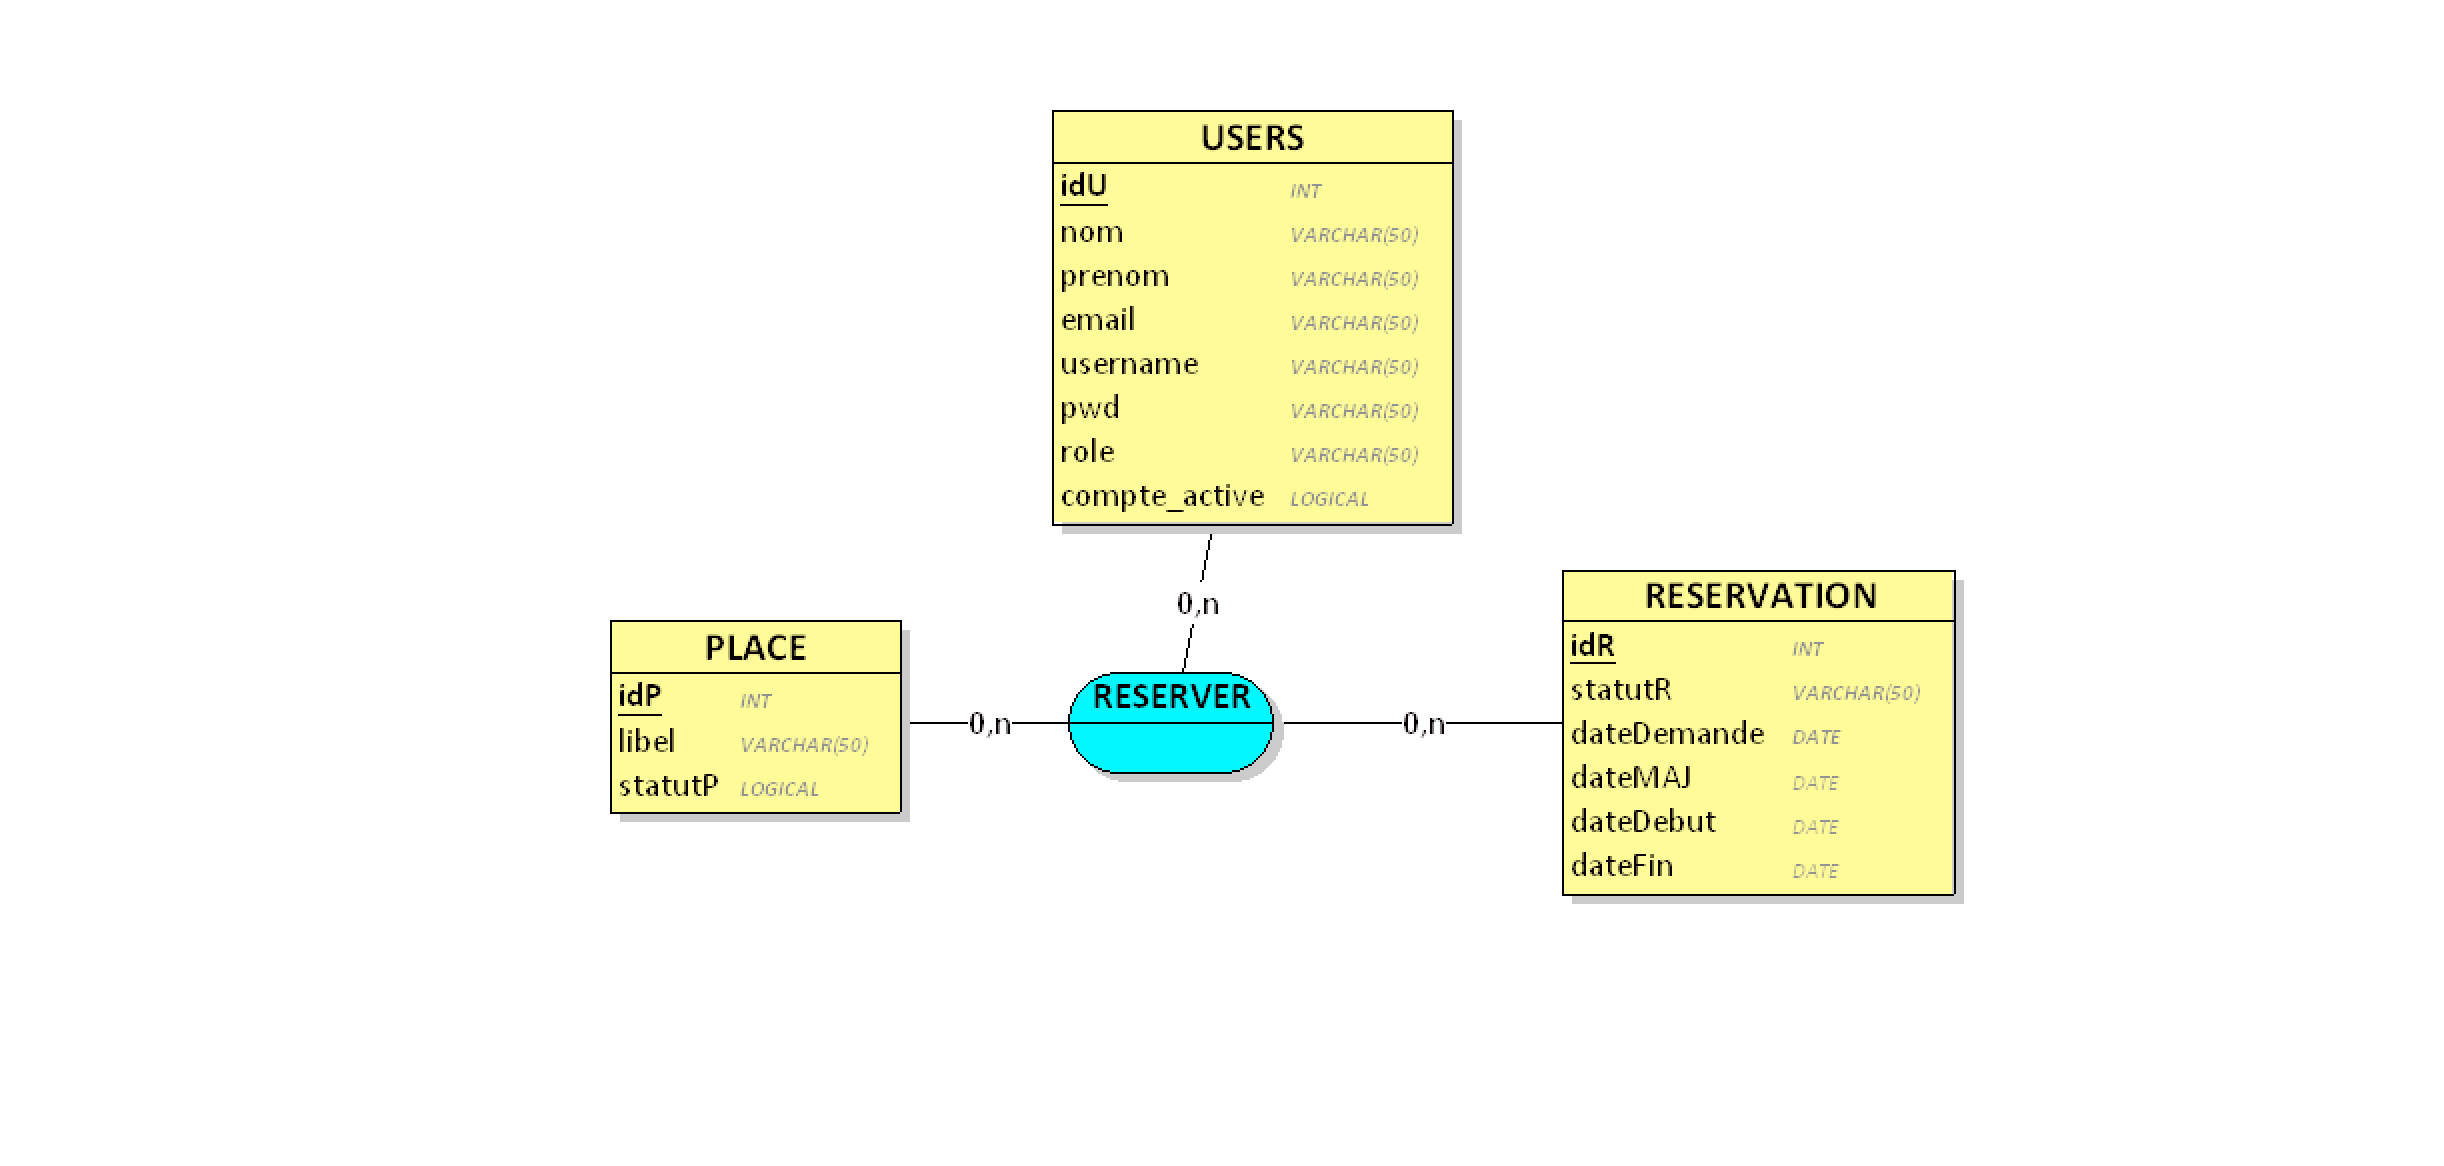
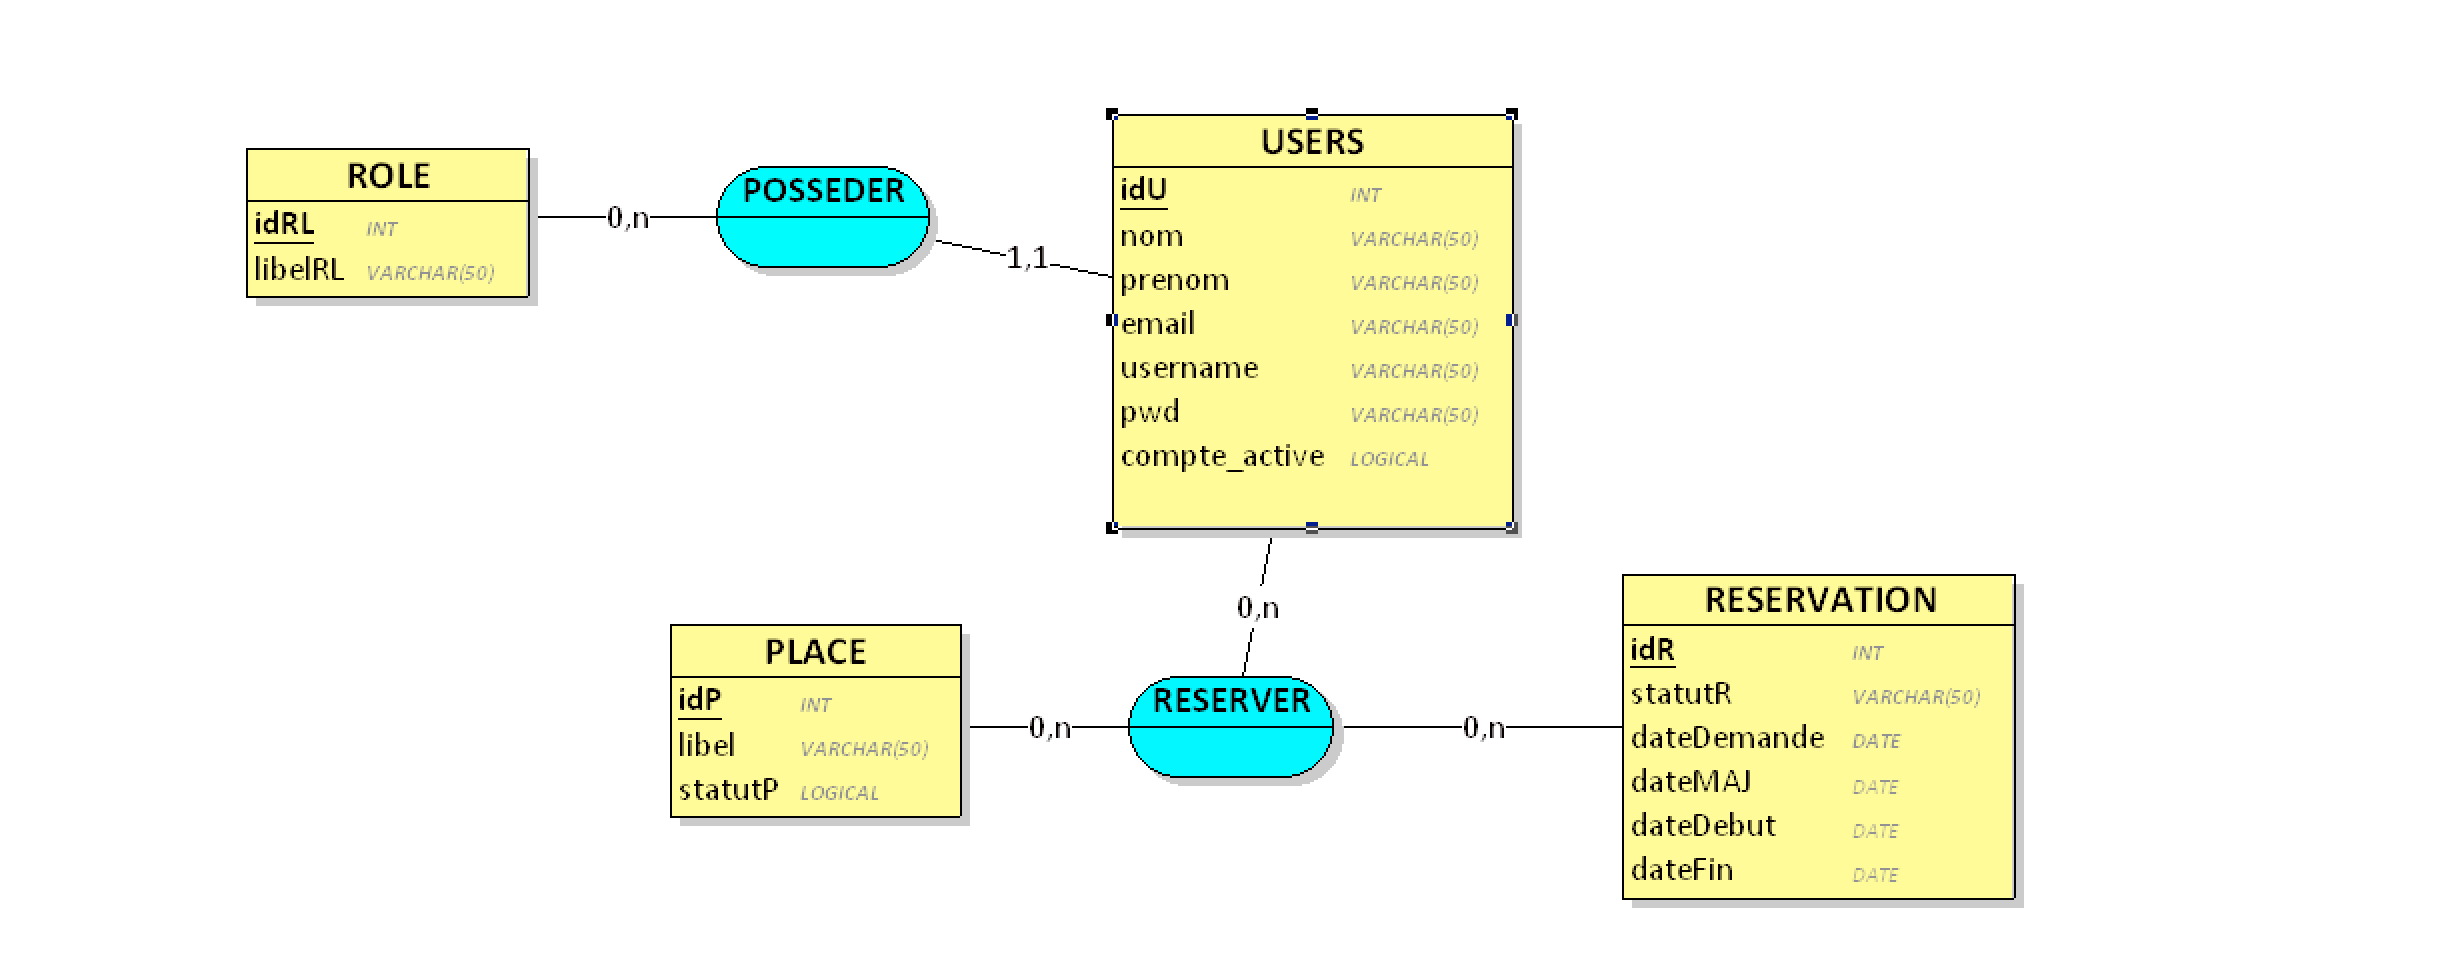
Edit database

Changed region(s): [[0.0933, 0.0936, 0.8396, 0.9667], [0.5597, 0.5925, 0.5908, 0.6237]]

diff --git a/database/migrations/2021_02_26_135723_create_roles_table.php b/database/migrations/2021_02_26_135723_create_roles_table.php
@@ -5,7 +5,7 @@ use Illuminate\Database\Schema\Blueprint;
 use Illuminate\Support\Facades\Schema;
 use Illuminate\Support\Facades\DB;
 
-class CreateUsersTable extends Migration
+class CreateRolesTable extends Migration
 {
     /**
      * Run the migrations.
@@ -14,14 +14,9 @@ class CreateUsersTable extends Migration
      */
     public function up()
     {
-        Schema::create('users', function (Blueprint $table) {
-            $table->increments('idU');
-            $table->string('nom');
-            $table->string('prenom');
-            $table->string('email')->unique();
-            $table->string('username');
-            $table->string('pwd');
-            $table->tinyInteger('compte_active')->default(0);
+        Schema::create('roles', function (Blueprint $table) {
+            $table->increments('idRL');
+            $table->string('libelRL');
             $table->timestamp('created_at')->useCurrent();
             $table->timestamp('updated_at')->default(DB::raw('NULL ON UPDATE CURRENT_TIMESTAMP'))->nullable();
         });
@@ -34,6 +29,6 @@ class CreateUsersTable extends Migration
      */
     public function down()
     {
-        Schema::dropIfExists('users');
+        Schema::dropIfExists('roles');
     }
 }

diff --git a/database/migrations/2021_02_26_135744_create_role_user_table.php b/database/migrations/2021_02_26_135744_create_role_user_table.php
@@ -1,0 +1,44 @@
+<?php
+
+use Illuminate\Database\Migrations\Migration;
+use Illuminate\Database\Schema\Blueprint;
+use Illuminate\Support\Facades\Schema;
+
+class CreateRoleUserTable extends Migration
+{
+    /**
+     * Run the migrations.
+     *
+     * @return void
+     */
+    public function up()
+    {
+        Schema::create('role_user', function (Blueprint $table) {
+            $table->integer('idU')->unsigned();;
+            $table->integer('idRL')->unsigned();;
+        });
+
+        Schema::table('role_user', function (Blueprint $table) {
+            $table->foreign('idU')
+                ->references('idU')
+                ->on('users')
+                ->onUpdate('cascade')
+                ->onDelete('cascade');
+            $table->foreign('idRL')
+                ->references('idRL')
+                ->on('roles')
+                ->onUpdate('cascade')
+                ->onDelete('cascade');
+        });
+    }
+
+    /**
+     * Reverse the migrations.
+     *
+     * @return void
+     */
+    public function down()
+    {
+        Schema::dropIfExists('role_user');
+    }
+}

diff --git a/resources/views/navbar.blade.php b/resources/views/navbar.blade.php
@@ -13,7 +13,7 @@
         <!-- SEARCH FORM -->
         <form class="form-inline ml-3">
         <div class="input-group input-group-sm">
-            <input class="form-control form-control-navbar" type="search" placeholder="Search" aria-label="Search">
+            <input class="form-control form-control-navbar" type="search" placeholder="Rechercher" aria-label="Search">
             <div class="input-group-append">
             <button class="btn btn-navbar" type="submit">
                 <i class="fas fa-search"></i>
@@ -53,7 +53,7 @@
         <!-- SidebarSearch Form -->
         <div class="form-inline">
             <div class="input-group" data-widget="sidebar-search">
-            <input class="form-control form-control-sidebar" type="search" placeholder="Search" aria-label="Search">
+            <input class="form-control form-control-sidebar" type="search" placeholder="Rechercher" aria-label="Search">
             <div class="input-group-append">
                 <button class="btn btn-sidebar">
                 <i class="fas fa-search fa-fw"></i>

diff --git a/database/seeders/RoleSeeder.php b/database/seeders/RoleSeeder.php
@@ -1,0 +1,28 @@
+<?php
+
+namespace Database\Seeders;
+
+use Illuminate\Database\Seeder;
+use Illuminate\Support\Facades\DB;
+
+class RoleSeeder extends Seeder
+{
+    /**
+     * Run the database seeds.
+     *
+     * @return void
+     */
+    public function run()
+    {
+        DB::table('roles')->insert(array(
+            array(
+              'idRL' => 1,
+              'libelRL' => 'admin'
+            ),
+            array(
+                'idRL' => 2,
+                'libelRL' => 'user'
+              ),
+        ));
+    }
+}

diff --git a/database/seeders/RoleUserSeeder.php b/database/seeders/RoleUserSeeder.php
@@ -1,0 +1,24 @@
+<?php
+
+namespace Database\Seeders;
+
+use Illuminate\Database\Seeder;
+use Illuminate\Support\Facades\DB;
+
+class RoleUserSeeder extends Seeder
+{
+    /**
+     * Run the database seeds.
+     *
+     * @return void
+     */
+    public function run()
+    {
+        DB::table('role_user')->insert(array(
+            array(
+              'idU' => 1,
+              'idRL' => 1
+            ),
+        ));
+    }
+}

diff --git a/database/seeders/UserSeeder.php b/database/seeders/UserSeeder.php
@@ -21,7 +21,6 @@ class UserSeeder extends Seeder
               'email' => 'admin@gmail.com',
               'username' => 'admin',
               'pwd' => bcrypt('password'),
-              'role' => 'admin',
               'compte_active' => 1,
             ),
         ));
